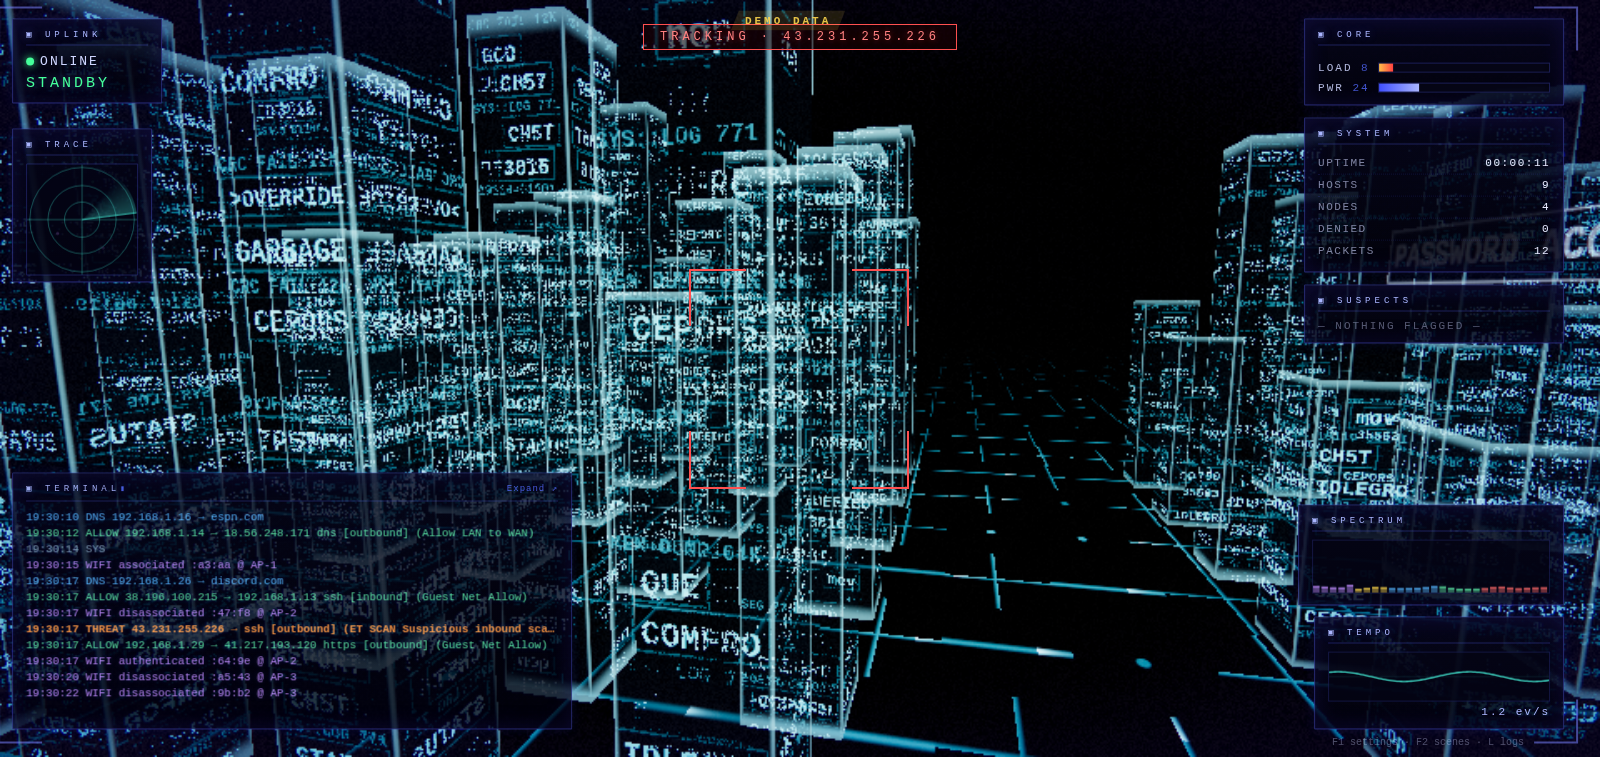
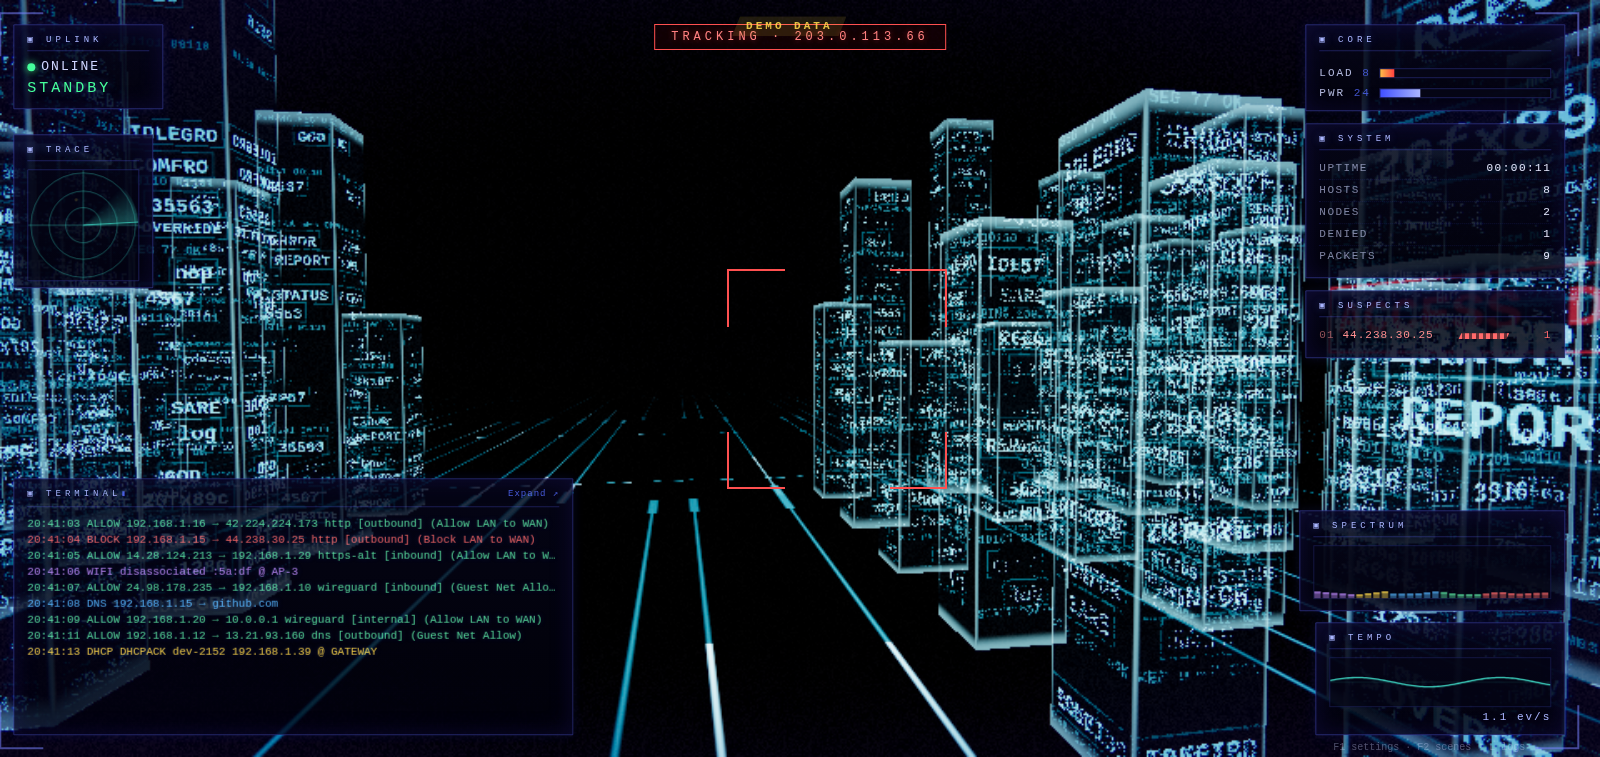
Gibson: routed circuit-board floor, lower wider flight, seamless listings
- floor is now drawn in world space as a real board: parallel trace
  streets in long runs that start and end at pads, sparse full-width cross
  buses with via pads at the crossings, 90-degree routing only, and pulse
  heads with short tails racing down the copper; the board rides toward the
  camera at exactly the towers' speed
- flight drops to y 1.6-3.2, well under the tower tops, and the corridor
  widens (lanes start at x 1.7 cells) so the wider left-right swing stays
  clean air and actually reads as weaving
- the listings atlas repaints only a few cells per rebuild instead of
  clearing everything, so words scroll away and trickle in - no more
  wall-wide reset flash

diff --git a/web/src/themes/gibson/ground.ts b/web/src/themes/gibson/ground.ts
@@ -1,17 +1,17 @@
 import { Color, Mesh, PlaneGeometry, ShaderMaterial, Vector3 } from 'three';
 
 /**
- * The floor of the storage cavern: a black plane laced with cyan circuit
- * traces that scroll toward the camera at exactly the towers' speed, every
- * cell a random corner, run or pad like the film's etched ground plane, with
- * energy pulses running down the copper, dissolving into black fog.
+ * The floor of the storage cavern: a black plane wired like a circuit board
+ * and scrolling toward the camera at exactly the towers' speed. Traces run
+ * in parallel streets along the cavern, in long runs that start and stop at
+ * pads, joined now and then by full-width cross buses with via pads at every
+ * crossing; 90-degree turns only. Energy pulses with bright heads and short
+ * tails race down the copper, and the whole board dissolves into black fog.
  */
 
 const VERT = /* glsl */`
-  varying vec2 vUv;
   varying vec3 vWorld;
   void main() {
-    vUv = uv;
     vec4 wp = modelMatrix * vec4(position, 1.0);
     vWorld = wp.xyz;
     gl_Position = projectionMatrix * viewMatrix * wp;
@@ -19,44 +19,56 @@ const VERT = /* glsl */`
 
 const FRAG = /* glsl */`
   precision highp float;
-  uniform float uOff, uTime, uFogD, uPulse;
+  uniform float uScroll, uTime, uFogD, uPulse;
   uniform vec3 uColor, uCamPos;
-  varying vec2 vUv;
   varying vec3 vWorld;
   float h21(vec2 p) { p = fract(p * vec2(123.34, 456.21)); p += dot(p, p + 45.32); return fract(p.x * p.y); }
   void main() {
-    vec2 g = vec2(vUv.x * 60.0, vUv.y * 60.0 + uOff);
-    vec2 id = floor(g);
-    vec2 p = fract(g) - 0.5;
-    float r = h21(id);
-    float w = 0.05;
-    float line;
-    float along = 0.0;
-    bool hasPulse = true;
-    if (r < 0.62) {
-      // a routed corner: one horizontal stub and one vertical stub meeting
-      float a = floor(r / 0.155);
-      float hh = smoothstep(w, 0.0, abs(p.y)) * (a < 1.0 ? step(0.0, p.y) : step(p.y, 0.0));
-      float vv = smoothstep(w, 0.0, abs(p.x)) * ((a == 0.0 || a == 2.0) ? step(0.0, p.x) : step(p.x, 0.0));
-      line = max(hh, vv);
-      along = h21(id + 3.0) < 0.5 ? p.x + 0.5 : p.y + 0.5;
-    } else if (r < 0.82) {
-      line = smoothstep(w, 0.0, abs(p.y));
-      along = p.x + 0.5;
-    } else {
-      line = smoothstep(0.06, 0.035, length(p));
-      hasPulse = false;
-    }
-    float bright = 0.45 + 0.55 * h21(id + 7.0);
-    // an energy pulse running down the trace, like the mainframe's packets:
-    // a bright head with a short tail, riding the copper, gated to the line
+    // pattern coords fixed to the floor: features ride toward the camera
+    vec2 P = vec2(vWorld.x, vWorld.z - uScroll);
+    float w = 0.045;
+    float LW = 2.6;
+    float SEG = 17.0;
+    float BH = 9.5;
+    float li = floor(P.x / LW);
+    float lf = fract(P.x / LW);
+    float si = floor(P.y / SEG);
+    float sf = fract(P.y / SEG);
+    float mask = 0.0;
     float pulse = 0.0;
-    if (hasPulse && h21(id + 9.0) > 0.55) {
-      float ph = fract(uTime * (0.45 + h21(id + 5.0) * 0.7) + h21(id + 11.0) * 7.0);
-      float dd = mod(along - ph, 1.0);
-      pulse = line * exp(-dd * 14.0) * step(dd, 0.34) * (0.6 + 0.4 * h21(id + 13.0));
+    // up to three parallel traces per street; each run lives in whole blocks
+    // and starts or ends at a pad, so runs read long and routed, not noisy
+    for (int k = 0; k < 3; k++) {
+      float fk = float(k);
+      float seed = li * 4.0 + fk;
+      float on = step(0.42, h21(vec2(seed, si)));
+      float d = abs(lf - (0.2 + fk * 0.3)) * LW;
+      float tr = smoothstep(w, 0.0, d) * on;
+      // pads at the ends of each run
+      float endPad = on * step(0.93, max(sf, 0.0)) * smoothstep(w * 2.4, w * 1.2, d);
+      float startPad = on * step(sf, 0.07) * smoothstep(w * 2.4, w * 1.2, d);
+      mask = max(mask, max(tr, max(endPad, startPad)));
+      // an energy pulse racing down this run: bright head, short tail
+      float ph = fract(uTime * (0.35 + h21(vec2(seed, 5.0)) * 0.5) + h21(vec2(seed + 0.5, si)));
+      float dd = mod(sf - ph, 1.0);
+      pulse += tr * exp(-dd * 9.0) * step(dd, 0.3) * (0.55 + 0.45 * h21(vec2(seed, si)));
     }
-    vec3 col = uColor * line * bright * uPulse + (uColor + vec3(0.4)) * pulse * 2.4;
+    // full-width cross buses, sparse, with their own pulses
+    float bi = floor(P.y / BH);
+    float bf = fract(P.y / BH);
+    float bus = step(0.45, h21(vec2(bi, 7.3))) * smoothstep(w, 0.0, min(bf, 1.0 - bf) * BH);
+    mask = max(mask, bus);
+    float phb = fract(uTime * 0.28 + h21(vec2(bi, 2.0)));
+    float ddx = mod(P.x / 46.0 + 0.5 - phb, 1.0);
+    pulse += bus * exp(-ddx * 8.0) * step(ddx, 0.22);
+    // via pads where a bus meets a street, wherever a trace crosses
+    for (int k = 0; k < 3; k++) {
+      float d = abs(lf - (0.2 + float(k) * 0.3)) * LW;
+      float pad = smoothstep(0.11, 0.07, length(vec2(d, min(bf, 1.0 - bf) * BH * 0.5)));
+      mask = max(mask, pad * step(0.45, h21(vec2(bi, 7.3))));
+    }
+    float bright = 0.5 + 0.5 * h21(vec2(li, si * 0.5 + 7.0));
+    vec3 col = uColor * mask * bright * uPulse + (uColor + vec3(0.45)) * pulse * 2.4;
     float d = length(vWorld - uCamPos);
     col *= exp(-uFogD * uFogD * d * d);
     gl_FragColor = vec4(col, 1.0);
@@ -69,12 +81,12 @@ export class Ground {
   constructor(scene: import('three').Scene) {
     this.material = new ShaderMaterial({
       uniforms: {
-        uOff: { value: 0 },
+        uScroll: { value: 0 },
         uTime: { value: 0 },
         uFogD: { value: 0.044 },
         uPulse: { value: 1 },
         uColor: { value: new Color(0x3fd9ff) },
-        uCamPos: { value: new Vector3(0, 5.5, 7) },
+        uCamPos: { value: new Vector3(0, 2.4, 7) },
       },
       vertexShader: VERT,
       fragmentShader: FRAG,
@@ -88,9 +100,8 @@ export class Ground {
 
   /** speed: wall scroll units/sec; pulse: music glow; fog: distance fade. */
   update(dt: number, speed: number, pulse: number, fog: number, camPos: Vector3): void {
-    // 60 cells over 120 world units: half a cell per world unit, so the
-    // traces track the towers exactly and the whole cavern flies past together
-    this.material.uniforms.uOff.value += speed * dt * 0.5;
+    // the board rides toward the camera at exactly the towers' world speed
+    this.material.uniforms.uScroll.value += speed * dt;
     this.material.uniforms.uTime.value += dt;
     this.material.uniforms.uPulse.value = pulse;
     this.material.uniforms.uFogD.value = fog;

diff --git a/web/src/themes/gibson/textatlas.ts b/web/src/themes/gibson/textatlas.ts
@@ -62,15 +62,33 @@ export class TextAtlas {
     if (this.words.length > 400) this.words.splice(0, 200);
   }
 
+  private first = true;
+
+  /**
+   * Repaint only a few cells and leave the rest alone: the canvas is
+   * persistent, so listings keep scrolling by undisturbed and new words
+   * trickle in, instead of every face flashing to fresh text at once.
+   */
   rebuild(): void {
+    for (let r = 0; r < ROWS; r++) {
+      for (let col = 0; col < COLS; col++) {
+        if (this.first || Math.random() < 0.18) this.drawCell(col, r);
+      }
+    }
+    this.first = false;
+    this.texture.needsUpdate = true;
+  }
+
+  private drawCell(col: number, row: number): void {
     const c = this.ctx;
+    const x = col * CW, y = row * CH;
     c.fillStyle = '#000';
-    c.fillRect(0, 0, this.canvas.width, this.canvas.height);
+    c.fillRect(x, y, CW, CH);
     const pick = (): string =>
       this.words.length && Math.random() < 0.34
         ? this.words[(Math.random() * this.words.length) | 0]
         : TOKENS[(Math.random() * TOKENS.length) | 0];
-    const box = (word: string, x: number, y: number): void => {
+    const box = (word: string, by: number): void => {
       const size = word.length > 11 ? 15 : word.length > 8 ? 19 : 24;
       c.font = `bold ${size}px "Courier New", monospace`;
       const bw = c.measureText(word).width + 12;
@@ -79,22 +97,16 @@ export class TextAtlas {
       const bx = x + 4 + Math.random() * (CW - 8 - bw);
       c.strokeStyle = 'rgba(52, 200, 255, 0.4)';
       c.lineWidth = 2;
-      c.strokeRect(bx, y, bw, bh);
+      c.strokeRect(bx, by, bw, bh);
       c.fillStyle = word === 'GARBAGE' || word === 'GOD' ? '#e8fbff' : '#5fe6ff';
-      c.fillText(word, bx + 6, y + bh - 6);
+      c.fillText(word, bx + 6, by + bh - 6);
     };
-    for (let r = 0; r < ROWS; r++) {
-      for (let col = 0; col < COLS; col++) {
-        const x = col * CW, y = r * CH;
-        box(pick(), x, y + 3 + Math.random() * 8);
-        if (Math.random() < 0.85) box(pick(), x, y + 38 + Math.random() * 8);
-        if (Math.random() < 0.8) {
-          c.font = `bold 15px "Courier New", monospace`;
-          c.fillStyle = 'rgba(40, 165, 205, 0.7)';
-          c.fillText(SUBS[(Math.random() * SUBS.length) | 0], x + 7, y + CH - 8);
-        }
-      }
+    box(pick(), y + 3 + Math.random() * 8);
+    if (Math.random() < 0.85) box(pick(), y + 38 + Math.random() * 8);
+    if (Math.random() < 0.8) {
+      c.font = `bold 15px "Courier New", monospace`;
+      c.fillStyle = 'rgba(40, 165, 205, 0.7)';
+      c.fillText(SUBS[(Math.random() * SUBS.length) | 0], x + 7, y + CH - 8);
     }
-    this.texture.needsUpdate = true;
   }
 }

diff --git a/web/src/themes/gibson/index.ts b/web/src/themes/gibson/index.ts
@@ -183,14 +183,14 @@ async function create(host: ThemeHost<typeof GIBSON_DEFAULTS>, init: RendererIni
       else lookWant.copy(lockTarget);
     }
     flyT += dtReal;
-    // stay inside the corridor's air-rights: the lane faces sit at |x| ~2.36,
-    // the shortest towers rise to 3 - so the flight stays under their tops
+    // stay inside the corridor's air-rights: the lane faces sit at |x| ~3.9,
+    // the shortest towers rise to 3 - the flight stays well under their tops
     const camX = lockOn ? lockTarget.x * 0.25 + f.wanderX * 0.0015
-      : Math.sin(flyT * 0.09) * 1.25 + Math.sin(flyT * 0.041) * 0.55;
-    const camY = lockOn ? 4.2 : 3.5 + Math.sin(flyT * 0.067) * 1.05 + Math.sin(flyT * 0.029) * 0.35;
+      : Math.sin(flyT * 0.085) * 2.1 + Math.sin(flyT * 0.037) * 0.85;
+    const camY = lockOn ? 3.0 : 2.4 + Math.sin(flyT * 0.067) * 0.5 + Math.sin(flyT * 0.029) * 0.3;
     // look where the flight is going: the gaze leads the sway, so each swing
     // reads as a turn down a lane, not a listing camera
-    if (!lockOn) lookWant.set(f.wanderX * 0.01 + camX * 2.4 + Math.sin(flyT * 0.11 + 2.0) * 1.4, 1.2 + Math.sin(flyT * 0.055) * 0.5, -30);
+    if (!lockOn) lookWant.set(f.wanderX * 0.01 + camX * 2.6 + Math.sin(flyT * 0.11 + 2.0) * 1.4, 1.5 + Math.sin(flyT * 0.055) * 0.4, -30);
     look.lerp(lookWant, Math.min(1, dtReal * 1.2));
     if (lockOn) {
       const sp = lockTarget.clone().project(world.camera);

diff --git a/web/src/themes/gibson/towers.ts b/web/src/themes/gibson/towers.ts
@@ -134,13 +134,14 @@ export class Towers {
       for (let i = 0; i < this.n; i++) a[i] = typeof fill === 'function' ? fill(i) : fill;
       return a;
     };
-    // a corridor down the middle for the camera, like the film: lanes of
-    // towers line the left and right, the centre stays an open data path
+    // a wide corridor down the middle for the camera, like the film: lanes of
+    // towers line the left and right, the centre stays an open data path wide
+    // enough for the flight to swing through
     const half = Math.ceil(cols / 2);
     this.x = f((i) => {
       const j = i % cols;
       const side = j < half ? -1 : 1;
-      return side * (1.1 + (j % half)) * SP_X;
+      return side * (1.7 + (j % half)) * SP_X;
     });
     this.z = f((i) => -5 - Math.floor(i / cols) * SP_Z);
     this.hT = f(() => 3 + Math.random() * 5);
